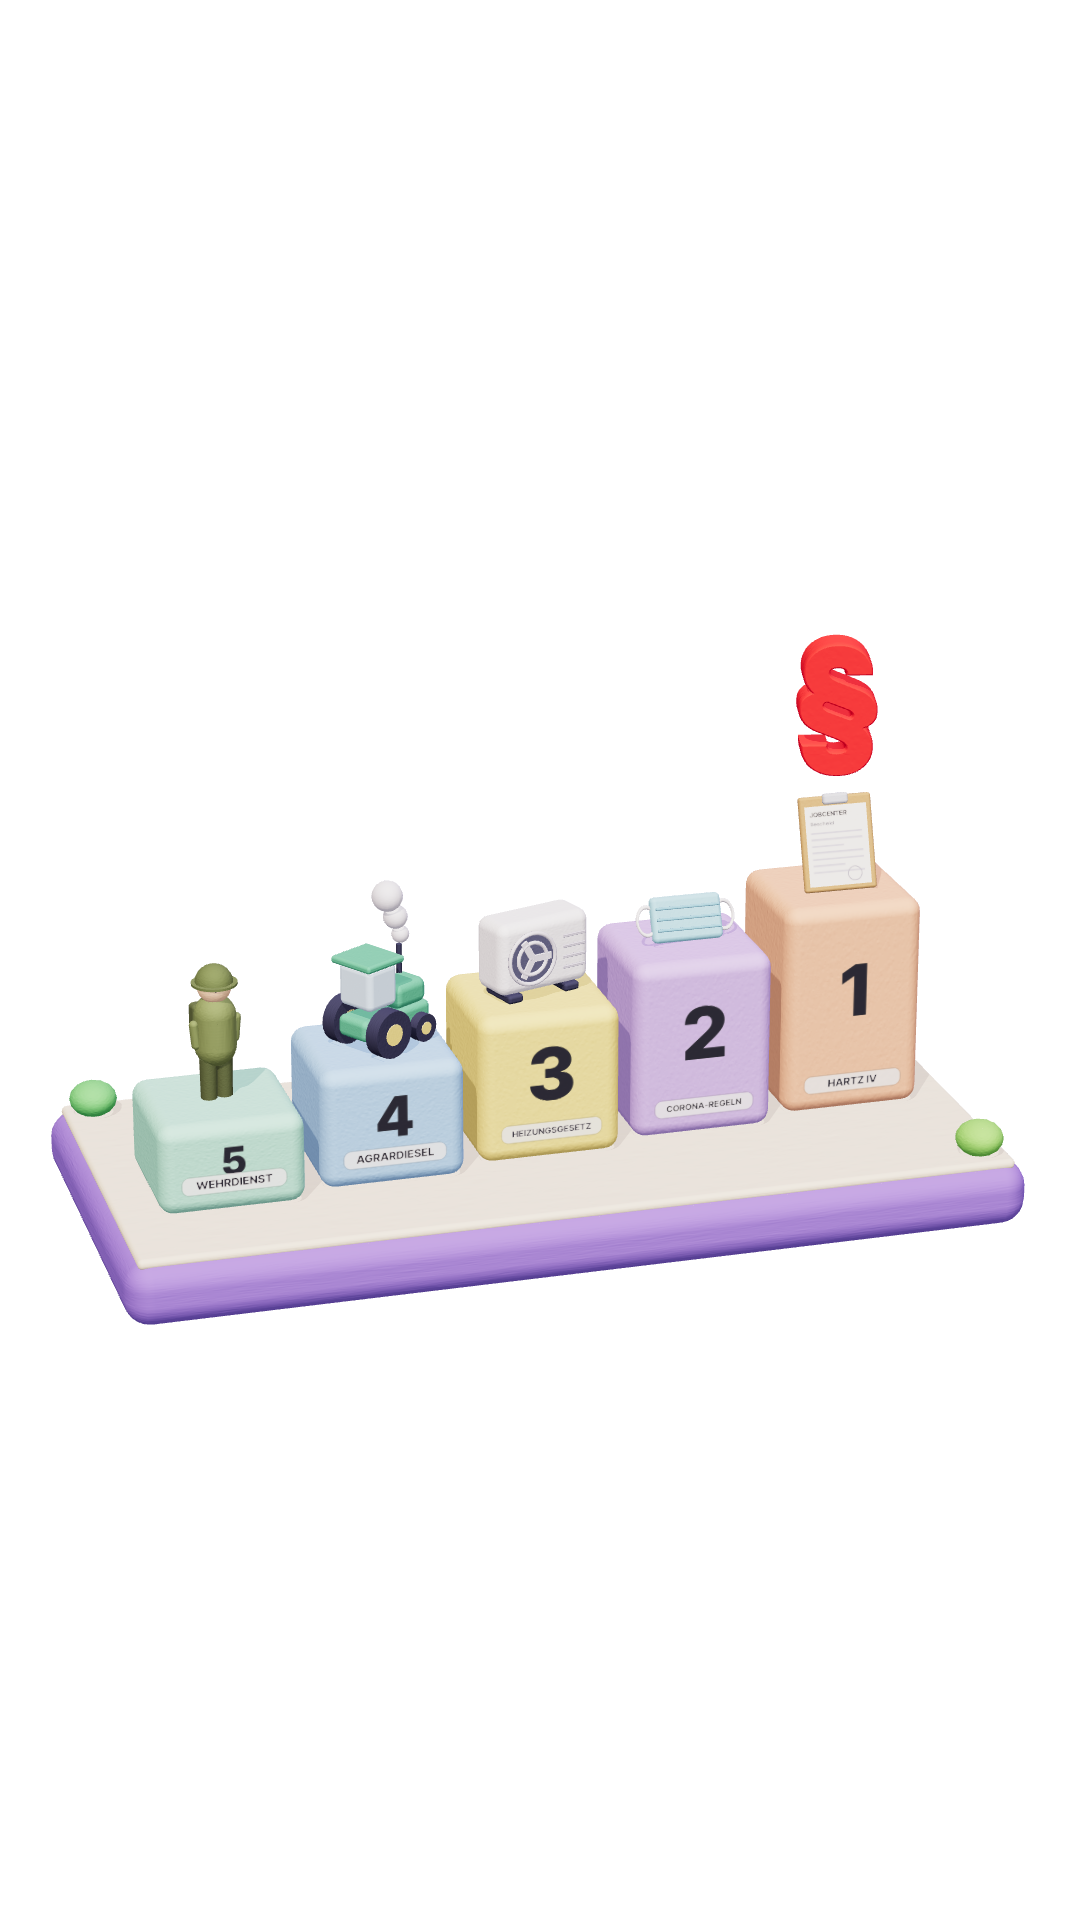
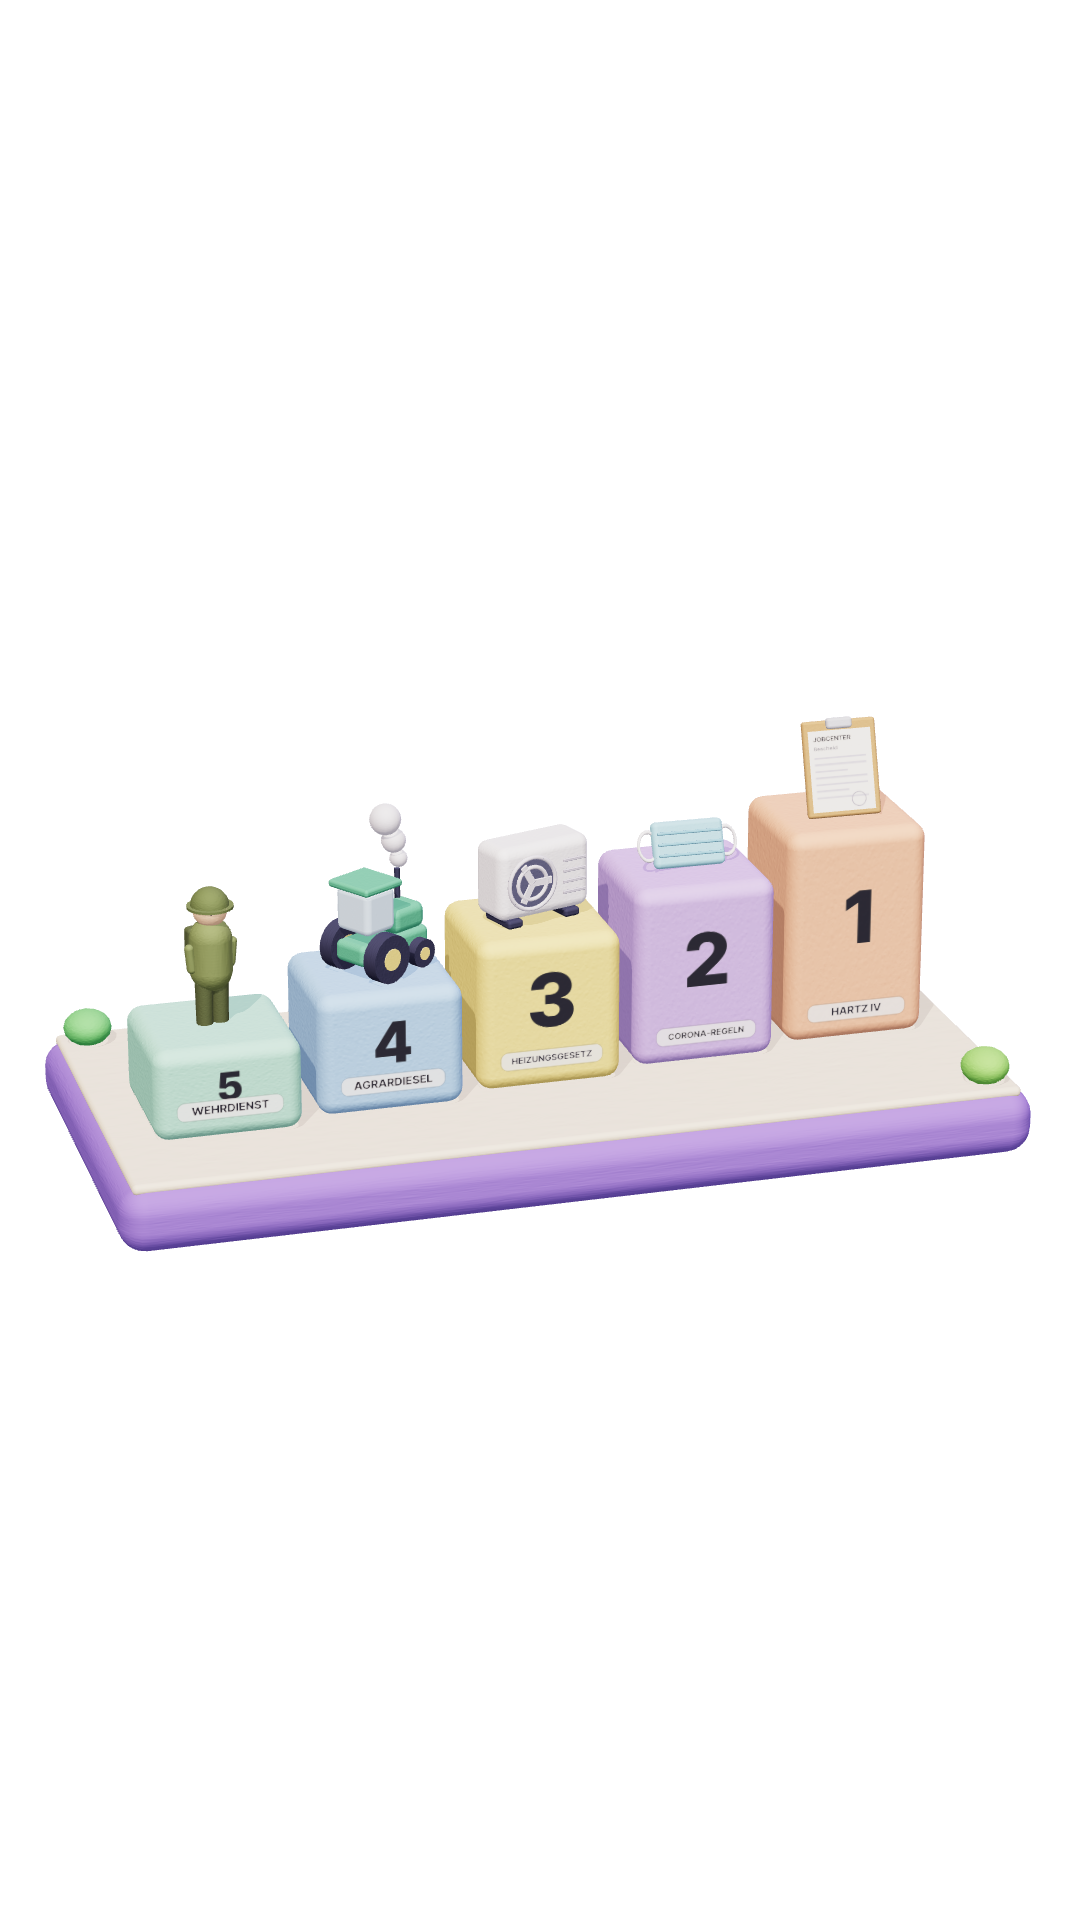
Thumbnail Gesetze: rotes § über Podest 1 entfernt
Claude-Session: https://claude.ai/code/session_01JQEQeouhfuAX8JpSfuj7SD

Changed region(s): [[0.0306, 0.3125, 0.9778, 0.6875]]

diff --git a/CLAUDE.md b/CLAUDE.md
@@ -41,7 +41,7 @@
 - **Musik:** im schraffuren-Stil (Instagram „schraffuren“, Original-Audio): weicher tiefer Puls ~100 BPM, Sub-Bass, leise luftige Fläche, fast keine Melodie/Hi-Hats (Referenz: `paket-test/music_variants.py` → `track_D`). Lautstärke (Merz-Video, 17./18.11.2026): Die Musik muss auch auf dem Handy-Lautsprecher hörbar bleiben. Nachdem der Nutzer „Hintergrundtöne etwas leiser“ wollte, lag sie 19 dB unter der Stimme plus 9 dB Ducking und war auf dem Handy gar nicht mehr zu hören („Wo ist die Hintergrundmusik?“), weil fast 90 % von „Radar Focus“ unter 100 Hz liegen. Seitdem wird der Sub-Bass um etwa 8 dB abgesenkt, die Lautstärke über den Anteil über 250 Hz eingestellt (dort 22 dB unter der Stimme, während Tom spricht) und nur sanft geduckt (etwa −5 dB). Leiser gemacht werden bei Bedarf die Effekte, nicht die Musik (Referenz `merz/audio_full.py`, `MUSIC_DB`).
 - **Soundeffekte und Musik (ab 17.11.2026):** Geräusche und Musik kommen aus dem Epidemic-Sound-Connector (Tools `mcp__Sound__*`: `SearchSoundEffects`, `SearchRecordings`, `DownloadSoundEffect`, `DownloadRecording` als WAV; Download-Host audiocdn.epidemicsound.com ist in der Umgebung „Standard“ freigeschaltet, Dateien einzeln mit curl holen). Erst-Einsatz beim Rundfunk-Test: Musik „Radar Focus“ (Blue Saga, 100 BPM) statt der selbst gebauten Musik, Referenz `rundfunk/audio_test.py` und `rundfunk/SOUNDS.md`. Der Soundza-Connector (`search_sounds`, `download_sound`, kostenlos, kommerziell nutzbar) dient nur als Ausweichquelle, selbst synthetisieren nur, wenn beide nichts Passendes haben. Die Dateien nicht ins öffentliche Repo legen (Lizenz verbietet Weitergabe einzelner Dateien), stattdessen IDs und Einsatz in einer `SOUNDS.md` festhalten (Beispiel: `strom/v4/SOUNDS.md`). KI-erzeugte Soundza-Sounds (`ai_content`) dem Nutzer gegenüber erwähnen. Denselben Effekt nicht dauernd wiederholen (Feedback 17.11.2026: das ständige „tztztz“ von Knistern und Ticks bei jedem Strom-Impuls und jedem der 47 Kreise war nervig): Wiederkehrende Animationen bekommen nur an Schlüsselstellen einen Effekt, dazwischen trägt ein ruhiges Klangbett.
 - **Übergangs-Sounds:** keine Standard-Synth-Whooshes („hat jeder auf TikTok“). Für Wischer/Szenenwechsel die vom Nutzer gelieferten Epidemic-Sounds verwenden: `paket-test/sfx_epidemic/whoosh.mp3` (2 weiche Swooshes) und `clicks.mp3` (3 UI-Klicks, z. B. wenn eine Zahl erscheint).
-- **Thumbnail-System „Galerie A“ (ab 22.11.2026, Wahl des Nutzers, ersetzt die Cover-Regeln darunter):** Jedes Video bekommt dasselbe Thumbnail-Raster, egal in welchem Animationsstil das Video ist. Warmes Hellgrau (#F4F2EE zur Mitte, #DEDAD3 am Rand, leichte Körnung), oben links klein das Thema in Großbuchstaben (Inter Tight 600, grau, z. B. „POLITIK“, keine Nummer), darunter der Titel in zwei Zeilen (Inter Tight 600, 48 px, dunkelgrau), das 3D-Motiv des Videos freigestellt, groß und mittig mit weichem Schatten, unten mittig „function.“ in Rot #E01E2B (Poppins Medium). Format 1080 × 1920; alles Wichtige liegt im mittleren 4:5-Bereich (y 285–1635), damit dieselbe Datei ohne Verschieben bei TikTok, Instagram und YouTube Shorts passt. Die Motive sind seit 22.11.2026 alle im Knete-Look von „Wem gehört Deutschland?“ (Wunsch des Nutzers: „mach alle in Knete“): jedes Video bekommt ein eigenes kleines Knetmodell auf der lila Knetplatte mit cremefarbener Oberseite und kleinen Büschen an den Ecken, mit denselben Pastellfarben, derselben Knete-Struktur und demselben weichen Licht, Rot nur am roten Faden (z. B. das § über Podest 1, das Kabel vom Windrad, die A7). Eine automatische Umwandlung der alten Cover-Szenen sah schlecht aus (alles lila Klötze), deshalb werden die Modelle von Hand in `thumbs/knete_studio.js` gebaut (`MOTIFS.<name>`, Seite `thumbs/knete.html?m=<name>`) und mit `node thumbs/knete_render.mjs [name]` nach `thumbs/motive_knete/` gerendert; für ein neues Video dort ein neues Motiv anlegen. Umsetzung: `thumbs/galerie.html?v=<name>` (Titel und Thema in `DATA`, Motiv aus `thumbs/motive_knete/`; die alten Motive im Original-Look liegen in `thumbs/motive/`, abrufbar mit `&dir=motive`), rendern mit `node thumbs/render_galerie_alle.mjs <name>` (Server Port 8780 im Hauptordner) → `thumbs/final/Thumbnail_<name>.png`. Abgelehnt auf dem Weg dorthin: dunkler Kanal-Cover-Look für beide Videos („die Thumbnails sollten einen Stil haben“), Roter Punkt, Große Zahl, Exponat, Akte (zu rot), Magazin, Sticker-Pop, Blaupause, Risographie („viel zu auffällig“); Vergleichsbilder in `thumbs/`.
+- **Thumbnail-System „Galerie A“ (ab 22.11.2026, Wahl des Nutzers, ersetzt die Cover-Regeln darunter):** Jedes Video bekommt dasselbe Thumbnail-Raster, egal in welchem Animationsstil das Video ist. Warmes Hellgrau (#F4F2EE zur Mitte, #DEDAD3 am Rand, leichte Körnung), oben links klein das Thema in Großbuchstaben (Inter Tight 600, grau, z. B. „POLITIK“, keine Nummer), darunter der Titel in zwei Zeilen (Inter Tight 600, 48 px, dunkelgrau), das 3D-Motiv des Videos freigestellt, groß und mittig mit weichem Schatten, unten mittig „function.“ in Rot #E01E2B (Poppins Medium). Format 1080 × 1920; alles Wichtige liegt im mittleren 4:5-Bereich (y 285–1635), damit dieselbe Datei ohne Verschieben bei TikTok, Instagram und YouTube Shorts passt. Die Motive sind seit 22.11.2026 alle im Knete-Look von „Wem gehört Deutschland?“ (Wunsch des Nutzers: „mach alle in Knete“): jedes Video bekommt ein eigenes kleines Knetmodell auf der lila Knetplatte mit cremefarbener Oberseite und kleinen Büschen an den Ecken, mit denselben Pastellfarben, derselben Knete-Struktur und demselben weichen Licht, Rot nur am roten Faden (z. B. das Kabel vom Windrad, die A7; das rote § über den Gesetze-Podesten wollte der Nutzer nicht). Eine automatische Umwandlung der alten Cover-Szenen sah schlecht aus (alles lila Klötze), deshalb werden die Modelle von Hand in `thumbs/knete_studio.js` gebaut (`MOTIFS.<name>`, Seite `thumbs/knete.html?m=<name>`) und mit `node thumbs/knete_render.mjs [name]` nach `thumbs/motive_knete/` gerendert; für ein neues Video dort ein neues Motiv anlegen. Umsetzung: `thumbs/galerie.html?v=<name>` (Titel und Thema in `DATA`, Motiv aus `thumbs/motive_knete/`; die alten Motive im Original-Look liegen in `thumbs/motive/`, abrufbar mit `&dir=motive`), rendern mit `node thumbs/render_galerie_alle.mjs <name>` (Server Port 8780 im Hauptordner) → `thumbs/final/Thumbnail_<name>.png`. Abgelehnt auf dem Weg dorthin: dunkler Kanal-Cover-Look für beide Videos („die Thumbnails sollten einen Stil haben“), Roter Punkt, Große Zahl, Exponat, Akte (zu rot), Magazin, Sticker-Pop, Blaupause, Risographie („viel zu auffällig“); Vergleichsbilder in `thumbs/`.
 - **Cover (ab 16.11.2026, Wahl des Nutzers, seit 22.11.2026 durch „Galerie A“ ersetzt): ganz clean.** Nur das 3D-Hauptmotiv groß und mittig, ohne Titel, ohne Logo, ohne Beschriftungen. Vorlage: `geldautomat/cover_atm_modern.html?mode=clean` (dunkler Hintergrund #07070B mit violettem und rotem Licht, feines Bodenraster, roter Lichtschein unter dem Motiv, kleine rote Details am Motiv selbst). Das Motiv soll etwas zeigen, das neugierig macht, z. B. den Blick ins Innere. Zweites Beispiel: `strom/v4/cover_strom.html` (kompaktes Windrad mit gläserner Gondel und gläsernem Turm, roter Strom bis zum Stecker in der Steckdose). Drittes Beispiel: `rundfunk/cover/cover_turm.html` (Fernsehturm mit gläserner Kugel, kleinem Studio und Euro-Münzen innen, rot-weißer Antenne mit rotem Licht und geschwungenem Funkhaus am Fuß; vom Nutzer aus drei Varianten gewählt, der Fernseher mit Münzschlitz in `cover_rundfunk.html` gefiel ihm nicht). Bei neuen Covern ruhig zwei oder drei Motive als Vergleichsbild zur Wahl stellen. Das Motiv soll wie beim Geldautomaten kräftig, kompakt und detailreich sein (viele erkennbare Bauteile im Inneren, kleine rote Markierungen), ein schlankes Motiv mit wenig Innenleben war dem Nutzer zu schlicht.
   - Ausnahme (18.11.2026): Für das GEZ-Video wollte der Nutzer ein zweites Cover, ausdrücklich nicht im cleanen Stil, mit den echten Logos von ARD (Das Erste) und ZDF und einem Röhrenfernseher ohne Empfang (`rundfunk/cover/cover_gez.html`). Wenn ein Thema bekannte Marken betrifft, kann also auch ein Cover mit deren Logos passen; die Logos kommen als Vektorpfade aus dem npm-Paket simple-icons.
   - Abgelöst: das alte BER-Template `paket-test/cover3.html` (Titel links, roter Ring, Logo unten mittig) sowie die Varianten „minimal“ (Titel + Logo) und „voll“ (Kicker, Unterzeile, Beschriftungen), beide über `?mode=mini` bzw. `?mode=full` noch abrufbar.

diff --git a/STATUS.md b/STATUS.md
@@ -195,4 +195,4 @@ Der Nutzer wollte neue Ideen ohne Diorama-Look und hat dieses Thema gewählt, da
 - Weg dorthin: dunkler Cover-Look für beide Videos, dann vier einheitliche Stile (`thumbs/Thumbnail_Stile_Vergleich.jpg`, zu rot), vier komplett neue (`thumbs/Thumbnail_Stile_Neu_Vergleich.jpg`, „viel zu auffällig“), vier dezente (`thumbs/Thumbnail_Stile_Ruhig_Vergleich.jpg`, Nutzer wählte „Galerie“), vier Schrift-Positionen (`thumbs/Thumbnail_Galerie_Varianten.jpg`, Nutzer wählte A, „function.“ in Rot, ohne Nummer, Motiv größer).
 - Fertig für alle zehn Videos (Gesetze, Vermögen, Bankrun Stil 1 und 2, Geldautomat, Strom, Rundfunkbeitrag, Merz, 2027, Paket): `thumbs/final/Thumbnail_<name>.png`, Profilraster-Vorschau `thumbs/Galerie_Profilraster.jpg`. Ein Format für alle Plattformen (1080 × 1920, Inhalt im 4:5-Bereich). Gesetze und Vermögen auch in `<ordner>/social/Thumbnail_*_9x16.png` ersetzt.
 - Sechs ältere Videos ergänzt (Frage des Nutzers „hast du auf andere Videos keinen Zugriff?“): Auf GitHub gibt es nur dieses Repo; im Branch `add-function-toolkit` liegen die Skia-Skripte der frühen Videos (TÜV-Plakette, Umweltplakette, Autobahn-Nummer, Benzinpreis, Kennzeichen „Warum nur ein K?“, Wasserscheide „Nordsee oder Schwarzes Meer?“), aber keine Videodateien. Die Motive wurden aus den Cover-Skripten ohne Hintergrund und Schrift neu gezeichnet (skia-python, Hintergrund transparent, schwache Glüh-Ringe herausgefiltert) und liegen in `thumbs/motive/`. Thumbnails in `thumbs/final/` und `upload/Thumbnails_alle_Videos/`, Profilraster aller 16 in `thumbs/Galerie_Profilraster.jpg`. Weitere Videos (z. B. BER, Elbphilharmonie, Pfandflasche, Weißes Haus aus dem Styleguide) sind weder als Video noch als Code im Repo.
-- Alle Motive im Knete-Look (Wunsch des Nutzers „mach alle in Knete oder Wem-gehört-Deutschland-Stil“): Eine automatische Umwandlung der alten Cover-Szenen (Material tauschen, Kästen abrunden) ergab nur lila Klötze und wurde verworfen. Stattdessen hat jedes Video ein eigenes, von Hand gebautes Knetmodell auf der lila Knetplatte bekommen (`thumbs/knete_studio.js`, Seite `thumbs/knete.html?m=<name>`, rendern mit `node thumbs/knete_render.mjs` nach `thumbs/motive_knete/`): fünf Podeste mit Soldat, Traktor, Wärmepumpe, Maske, Jobcenter-Brief und rotem §; Bank mit Schlange und „LEER“-Automat; offener, fast leerer Tresor mit Schlange; Geldautomat mit 100-Euro-Schein; Windrad mit rotem Kabel zur Steckdose; Röhrenfernseher „Kein Empfang“ mit Münzen; Reichstag mit Glaskuppel und sinkenden Umfragebalken (letzter rot); Abreißkalender 1. Januar 2027 mit rotem Filzstift, Sparschwein und Deutschlandticket; Paket mit rotem Klebeband und Lieferwagen; TÜV-Plakette „26“ mit Kennzeichen und Auto; Umweltplaketten 4, 3 und 2 mit Ringstraße; Deutschland-Platte mit roter A7 und blauem Schild; Zapfsäule mit Literzylinder (roter Anteil „≈ 1 € an den Staat“); drei Kennzeichen mit rotem „K“ vor dem Kölner Dom; Bergrücken mit Tropfen, roter Wasserscheide und Flüssen zu Nordsee und Schwarzem Meer. „Wem gehört Deutschland?“ behält sein Motiv aus dem Video. `galerie.html` nimmt jetzt standardmäßig `motive_knete/`; alle 16 Thumbnails, die Upload-Ordner, die social-Ordner von Gesetze und Vermögen und das Profilraster sind ersetzt.
+- Alle Motive im Knete-Look (Wunsch des Nutzers „mach alle in Knete oder Wem-gehört-Deutschland-Stil“): Eine automatische Umwandlung der alten Cover-Szenen (Material tauschen, Kästen abrunden) ergab nur lila Klötze und wurde verworfen. Stattdessen hat jedes Video ein eigenes, von Hand gebautes Knetmodell auf der lila Knetplatte bekommen (`thumbs/knete_studio.js`, Seite `thumbs/knete.html?m=<name>`, rendern mit `node thumbs/knete_render.mjs` nach `thumbs/motive_knete/`): fünf Podeste mit Soldat, Traktor, Wärmepumpe, Maske und Jobcenter-Brief (das rote § darüber hat der Nutzer danach entfernen lassen); Bank mit Schlange und „LEER“-Automat; offener, fast leerer Tresor mit Schlange; Geldautomat mit 100-Euro-Schein; Windrad mit rotem Kabel zur Steckdose; Röhrenfernseher „Kein Empfang“ mit Münzen; Reichstag mit Glaskuppel und sinkenden Umfragebalken (letzter rot); Abreißkalender 1. Januar 2027 mit rotem Filzstift, Sparschwein und Deutschlandticket; Paket mit rotem Klebeband und Lieferwagen; TÜV-Plakette „26“ mit Kennzeichen und Auto; Umweltplaketten 4, 3 und 2 mit Ringstraße; Deutschland-Platte mit roter A7 und blauem Schild; Zapfsäule mit Literzylinder (roter Anteil „≈ 1 € an den Staat“); drei Kennzeichen mit rotem „K“ vor dem Kölner Dom; Bergrücken mit Tropfen, roter Wasserscheide und Flüssen zu Nordsee und Schwarzem Meer. „Wem gehört Deutschland?“ behält sein Motiv aus dem Video. `galerie.html` nimmt jetzt standardmäßig `motive_knete/`; alle 16 Thumbnails, die Upload-Ordner, die social-Ordner von Gesetze und Vermögen und das Profilraster sind ersetzt.
